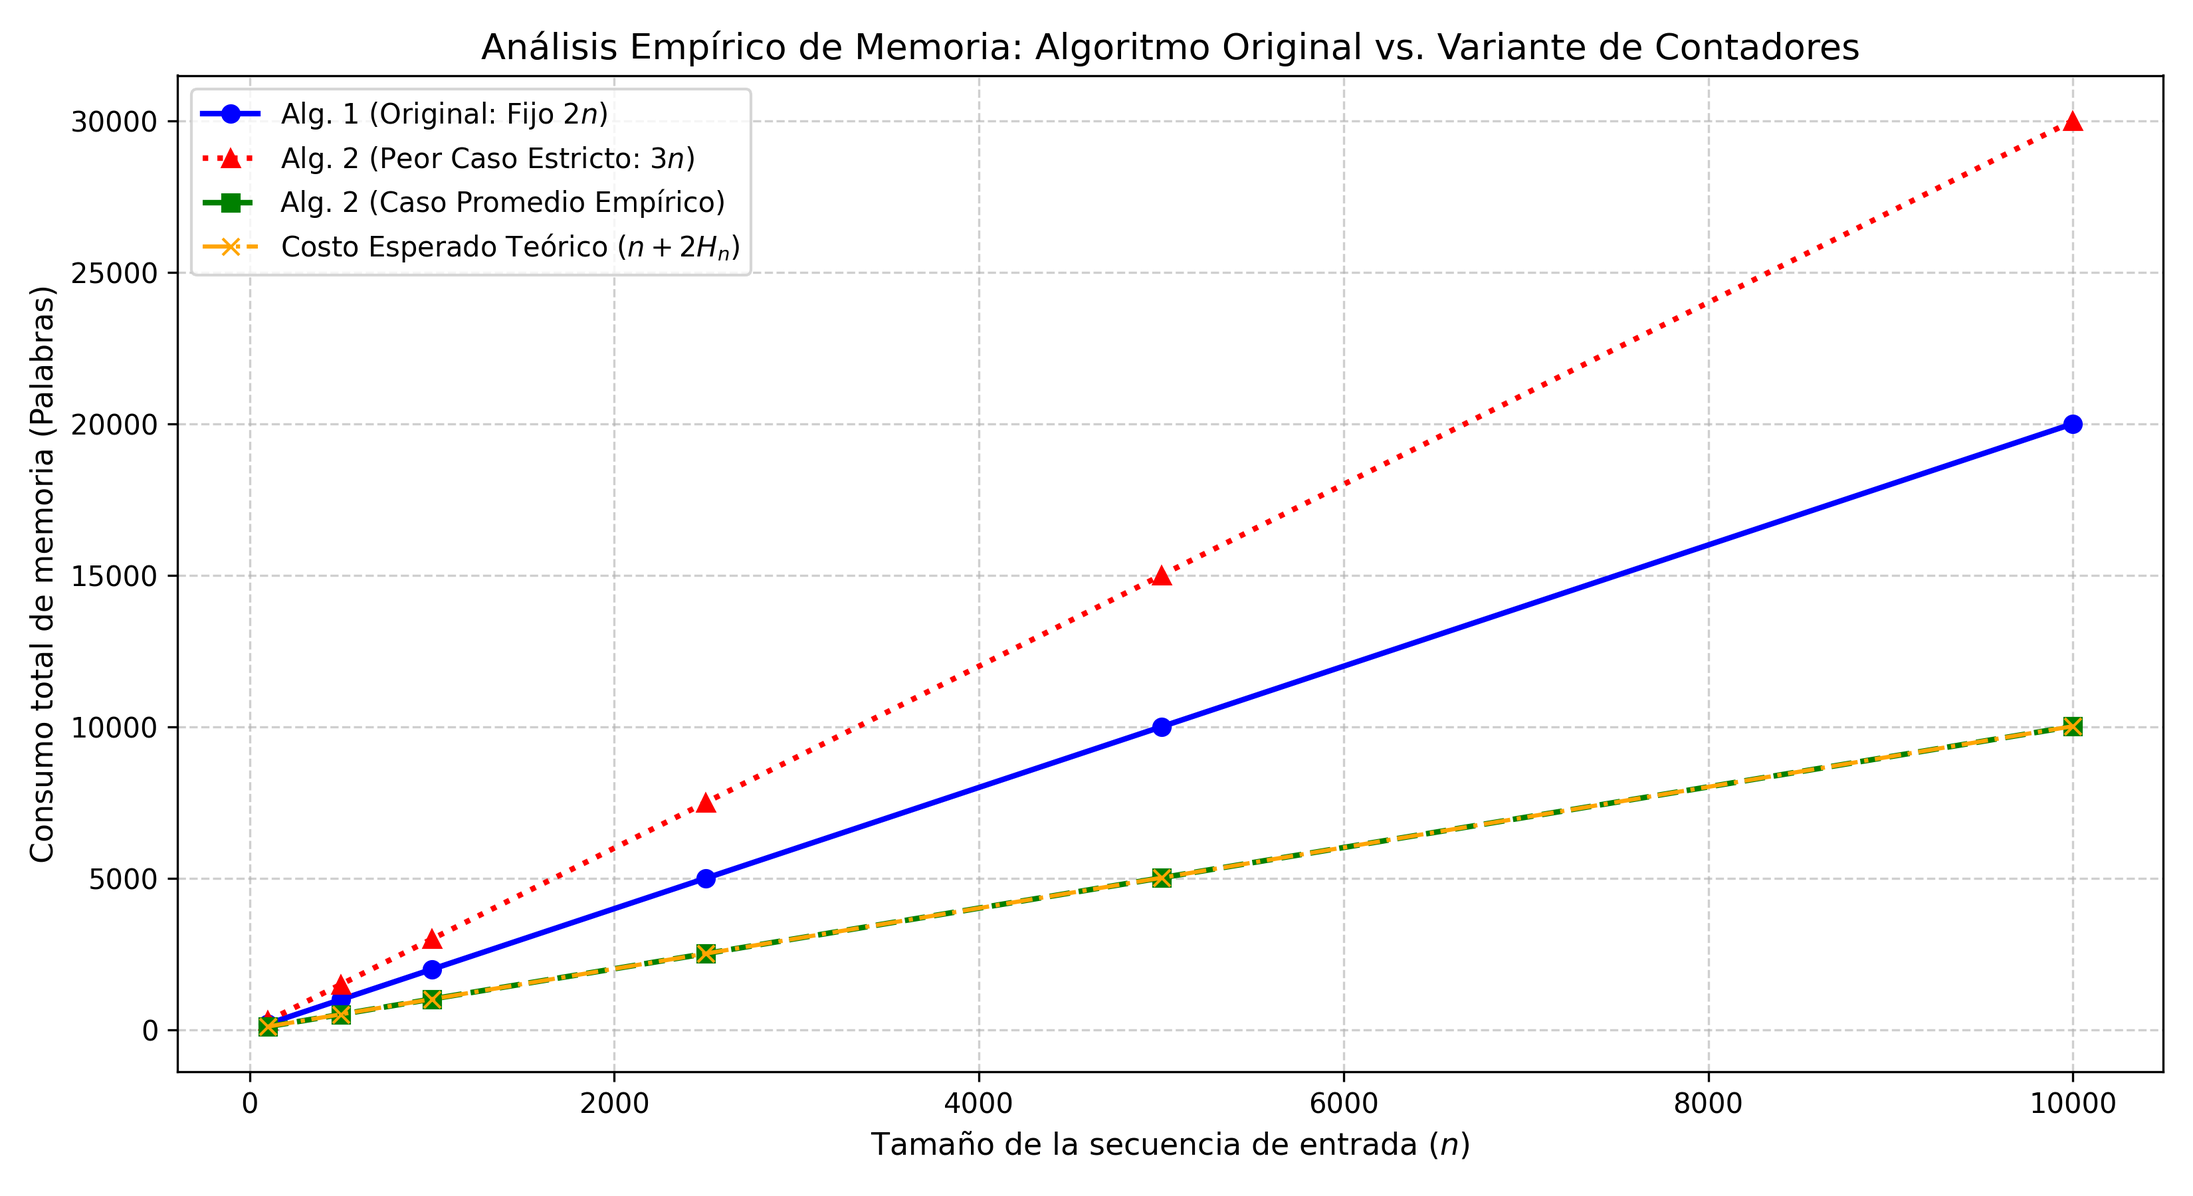
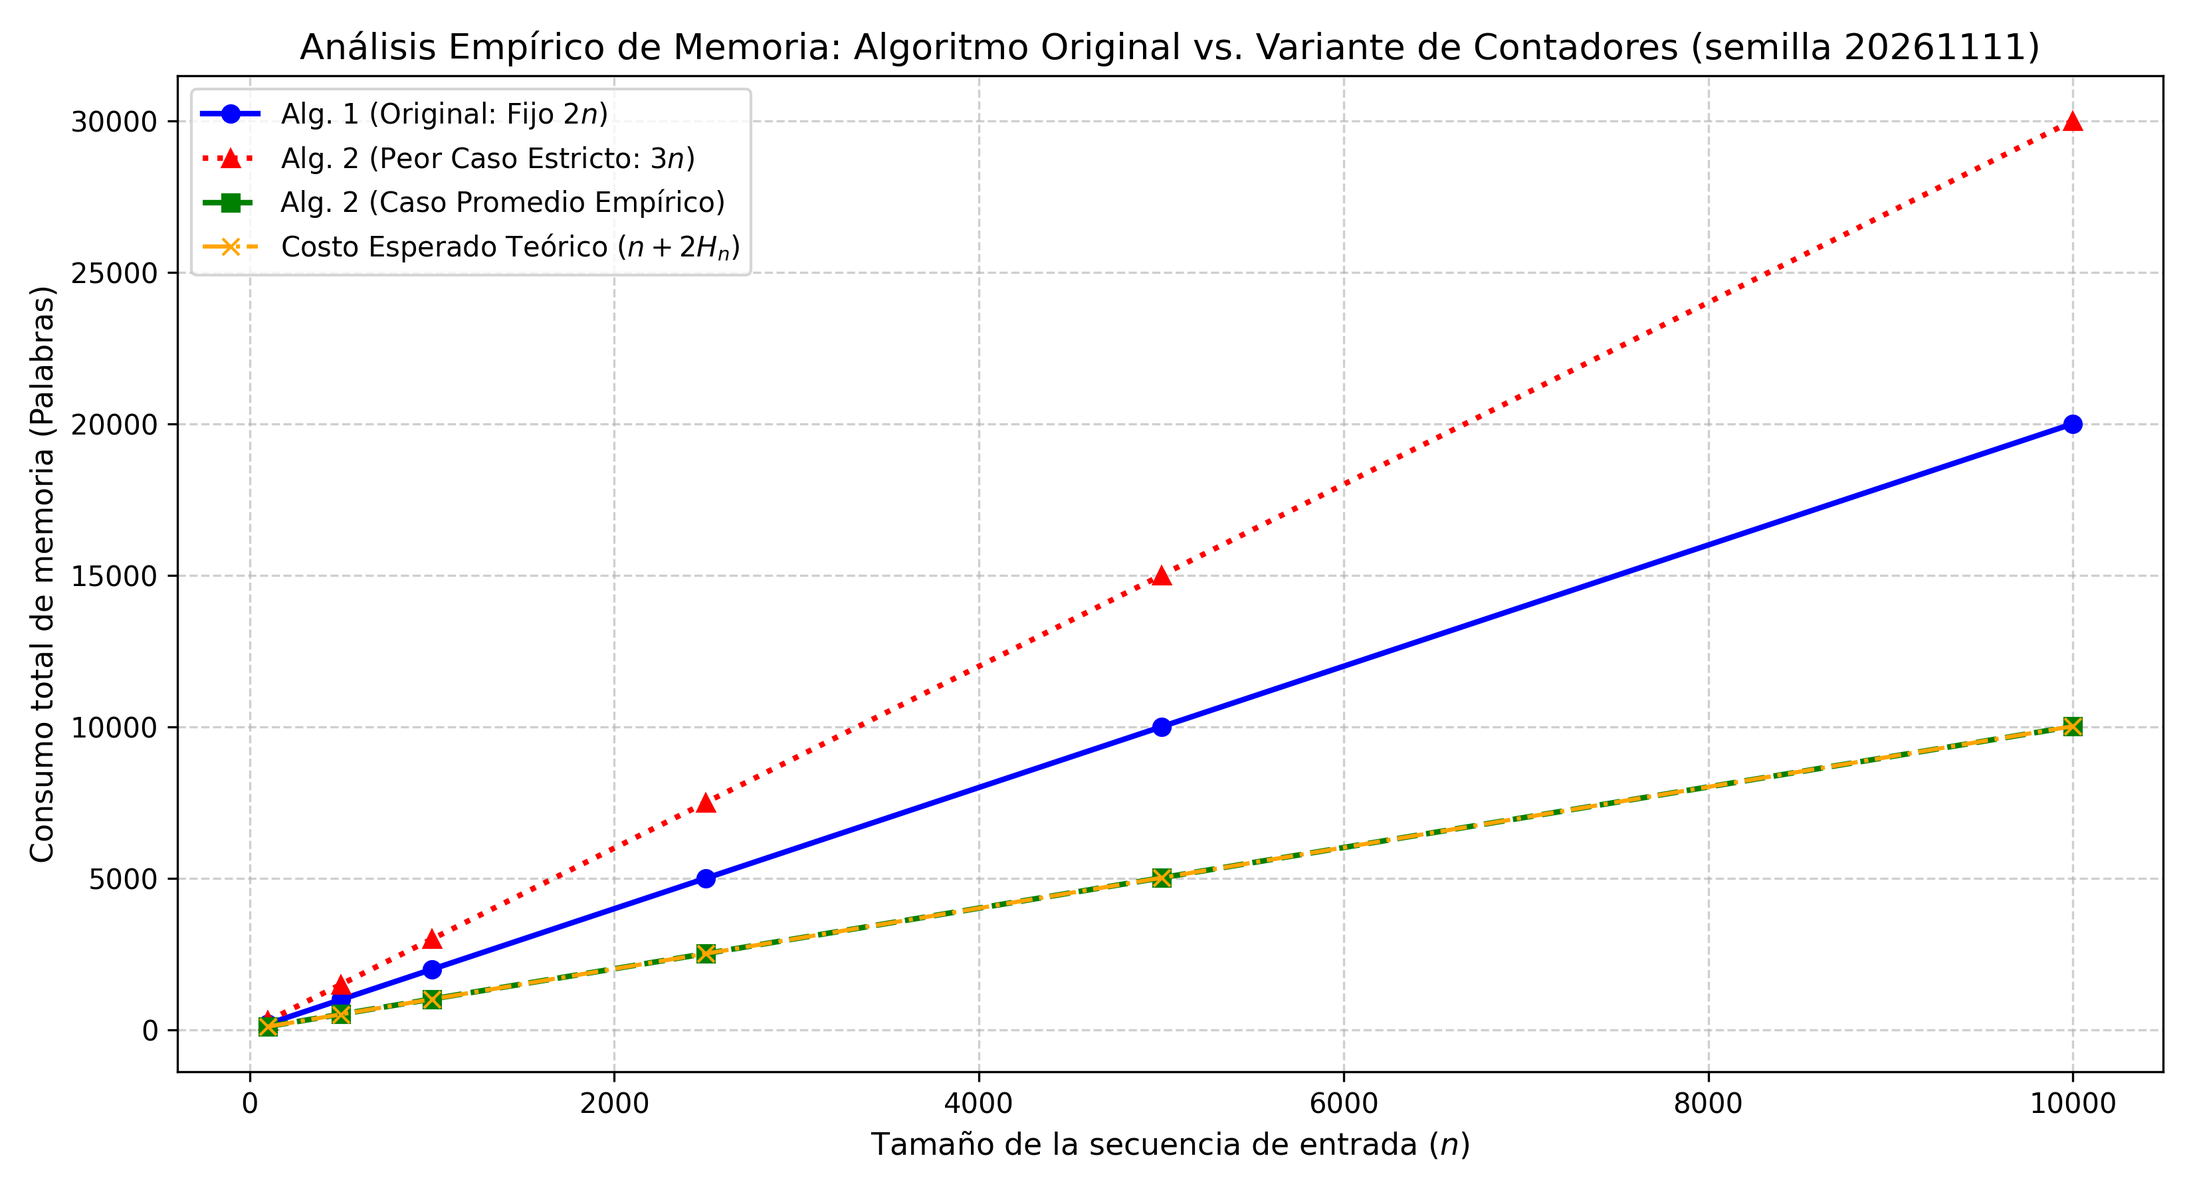
code correction ejercicio03

Changed region(s): [[0.1248, 0.0311, 0.9364, 0.0622]]

diff --git a/ejercicio03/analisis_pilas_dinamico.py b/ejercicio03/analisis_pilas_dinamico.py
@@ -2,6 +2,10 @@ import random
 import math
 import matplotlib.pyplot as plt
 
+# Semilla fija: las secuencias siguen siendo aleatorias, pero repetir
+# el script reproduce la misma prueba, la misma tabla y el mismo gráfico.
+SEMILLA = 20261111
+
 # ==========================================
 # 1. IMPLEMENTACIÓN DE LAS ESTRUCTURAS
 # ==========================================
@@ -63,27 +67,49 @@ class PilaConMinimoContador:
 # 2. PRUEBAS FUNCIONALES CON ASSERT
 # ==========================================
 
-def verificar_equivalencia_pilas(num_operaciones=10000):
+def minimo_por_recorrido(elementos):
+    """Mínimo calculado a mano: recorre todos los elementos de la pila."""
+    menor = elementos[0]
+    for valor in elementos[1:]:
+        if valor < menor:
+            menor = valor
+    return menor
+
+
+def verificar_equivalencia_pilas(num_operaciones=10000, semilla=SEMILLA):
+    rng = random.Random(semilla)
     pila_original = PilaConMinimo()
     pila_contador = PilaConMinimoContador()
-    
+
     for _ in range(num_operaciones):
         # 60% de probabilidad de push, 40% de pop (si no está vacía)
-        if not pila_original.S or random.random() < 0.6:
-            x = random.randint(-500, 500)
+        if not pila_original.S or rng.random() < 0.6:
+            x = rng.randint(-500, 500)
             pila_original.push(x)
             pila_contador.push(x)
         else:
             pila_original.pop()
             pila_contador.pop()
-        
+
         # Validaciones funcionales
         if pila_original.S:
+            minimo_manual_original = minimo_por_recorrido(pila_original.S)
+            minimo_manual_contador = minimo_por_recorrido(pila_contador.S)
             assert pila_original.tope() == pila_contador.tope(), "Error: El tope no coincide"
             assert pila_original.minimo() == pila_contador.minimo(), "Error: El mínimo no coincide"
             assert len(pila_original.S) == len(pila_contador.S), "Error: El tamaño de S no coincide"
-            
-    print(">>> ¡Prueba de equivalencia funcional con assert superada con éxito!\n")
+            assert pila_original.minimo() == minimo_manual_original, (
+                "Error: el mínimo de la pila original no coincide con el recorrido de S"
+            )
+            assert pila_contador.minimo() == minimo_manual_contador, (
+                "Error: el mínimo de la variante no coincide con el recorrido de S"
+            )
+
+    print(
+        ">>> ¡Prueba de equivalencia funcional con assert superada con éxito! "
+        f"(semilla {semilla}, {num_operaciones} operaciones; "
+        "el mínimo se contrastó en cada paso con un recorrido de toda la pila)\n"
+    )
 
 
 # ==========================================
@@ -103,10 +129,13 @@ def medir_uso_memoria_real(pila):
     return 0
 
 
-def analizar_casos_memoria_dinamico(tamanios=None, repeticiones_promedio=5):
+def analizar_casos_memoria_dinamico(tamanios=None, repeticiones_promedio=5, semilla=SEMILLA):
     if tamanios is None:
         tamanios = [100, 500, 1000, 2500, 5000, 10000]
 
+    rng = random.Random(semilla)
+
+    print(f"Semilla del caso promedio: {semilla} ({repeticiones_promedio} repeticiones por n)")
     print("=" * 115)
     print(f"{'n (elementos)':<12} | {'Alg. 1 (Prom)':<13} | {'Alg. 1 (Peor)':<13} | {'Alg. 2 (Prom)':<13} | {'Alg. 2 (Peor)':<13} | {'Esperado ($n+2H_n$)':<18} | {'¿Cumple?':<8}")
     print("=" * 115)
@@ -115,7 +144,8 @@ def analizar_casos_memoria_dinamico(tamanios=None, repeticiones_promedio=5):
         'n': [],
         'alg1_prom': [], 'alg1_peor': [],
         'alg2_prom': [], 'alg2_peor': [],
-        'teorico': []
+        'teorico': [],
+        'semilla': semilla,
     }
 
     for n in tamanios:
@@ -125,7 +155,7 @@ def analizar_casos_memoria_dinamico(tamanios=None, repeticiones_promedio=5):
         mem_a2_prom_acum = 0
         
         for _ in range(repeticiones_promedio):
-            datos_rand = [random.randint(1, 1000000) for _ in range(n)]
+            datos_rand = [rng.randint(1, 1000000) for _ in range(n)]
             
             p1_prom = PilaConMinimo()
             p2_prom = PilaConMinimoContador()
@@ -191,7 +221,10 @@ def generar_grafico_respaldo(datos):
 
     plt.xlabel("Tamaño de la secuencia de entrada ($n$)", fontsize=11)
     plt.ylabel("Consumo total de memoria (Palabras)", fontsize=11)
-    plt.title("Análisis Empírico de Memoria: Algoritmo Original vs. Variante de Contadores", fontsize=13)
+    plt.title(
+        f"Análisis Empírico de Memoria: Algoritmo Original vs. Variante de Contadores (semilla {datos['semilla']})",
+        fontsize=13,
+    )
     plt.legend(fontsize=10)
     plt.grid(True, linestyle="--", alpha=0.6)
     plt.tight_layout()

diff --git a/ejercicio03/ejercicio03.md b/ejercicio03/ejercicio03.md
@@ -197,52 +197,41 @@ class PilaConMinimoContador:
 
 ## Correctitud (Invariante)
 
-**Invariante de representación.** Válido antes y después de cada operación:
+**Invariante de representación.** Vale antes y después de cada operación. El índice `0` es la base de `S` y el índice `n − 1` es el tope, con `n = |S|`.
 
-> La suma de los contadores en `M` es igual a la longitud de `S` (`sum(c for _, c in M) = |S|`), y el tope de `M` (`M[-1][0]`) almacena siempre el mínimo global actual de toda la pila `S`. Además, cada par `(v, c)` en `M` representa un bloque de `c` elementos consecutivos en la base del prefijo correspondiente cuyo valor mínimo es `v`.
+> `M` está vacía exactamente cuando `S` está vacía. Si `S` no está vacía, para cada `i` con `0 ≤ i < n` sea `m(i) = mín(S[0], …, S[i])`, y sea `M = [(v_1, c_1), …, (v_k, c_k)]`. Entonces:
+>
+> 1. `v_1 > v_2 > … > v_k` y `c_j ≥ 1` para todo `j`.
+> 2. El tope de `M` es el mínimo de toda la pila: `v_k = m(n − 1) = mín(S)`.
+> 3. Existen índices `0 = p_1 < p_2 < … < p_k < n` que parten `S` en `k` segmentos. El segmento `j` ocupa el intervalo `[p_j, p_{j+1})`, con el convenio `p_{k+1} = n`. En ese segmento `m(i) = v_j` —luego todo elemento del segmento es `≥ v_j`— y `c_j` es la cantidad de posiciones `i` del segmento con `S[i] = v_j`.
 
-ARREGLAR:
-hay que arreglar bien la invariante, EN ESTA INVARIANTE DICE QUE La suma de los contadores en `M` es igual a la longitud de `S` y esto creo que no es cierto, pues cuando se agrega un elemento que es mayor que el mínimo actual el contador de M no lo tiene en cuenta, por lo que esos valores se dejan de contar.
+Cada par `(v_j, c_j)` es el mínimo de prefijo que empieza en `p_j`, junto con las copias de ese valor dentro de su segmento. Una posición `i` entra en algún contador exactamente cuando `S[i] = m(i)`. Si `S[i] > m(i)`, el elemento queda en `S` y fuera de `M`. Por eso la suma de los contadores es el número de posiciones que alcanzan el mínimo de su prefijo, y esa suma es a lo sumo `|S|`.
 
+Con `S = [5, 8, 5, 3, 4]` (base a la izquierda, tope a la derecha) los mínimos de prefijo son `5, 5, 5, 3, 3`. Alcanzan ese mínimo la primera `5`, la segunda `5` y el `3`. Queda `M = [(5, 2), (3, 1)]`: el segmento `[0, 3)` aporta las dos copias de `5`, y el segmento `[3, 5)` aporta la copia de `3`. La suma de contadores es `3` y `|S| = 5`; el `8` y el `4` superan el mínimo de su prefijo.
 
+* **Inicialización.** `S` y `M` se crean vacías. Se cumple el caso vacío del invariante.
 
-* **Inicialización.** Ambas pilas están vacías: `S` y `M` están vacías, la suma de contadores es 0 y el invariante se cumple trivialmente.
-* **Mantenimiento.** Analizamos las operaciones que modifican el estado:
-* `push(x)` con `x < M[-1][0]` (o pila vacía): Se añade un nuevo par `[x, 1]` a `M` y `x` a `S`. Como `x` es estrictamente menor que cualquier elemento anterior, se establece como el nuevo mínimo global y la suma total de elementos aumenta en 1. ✓
+* **Mantenimiento.** Se asume el invariante en el estado previo.
 
-insertar aquí una foto que visualice el ejemplo
-![Diagrama de la pila](algoritmo2working.jpeg)
+  * `push(x)` con pila vacía. Queda `S = [x]` y `M = [(x, 1)]`. El único segmento arranca en `p_1 = 0`, con `m(0) = x` y `c_1 = 1`. ✓
 
+  * `push(x)` con pila no vacía y `x < v_k`. Los prefijos `S[0..i]` para `i < n` no cambian, así que sus mínimos y los segmentos `1..k` se conservan. El elemento nuevo ocupa el índice `n` y `m(n) = mín(v_k, x) = x`: por el segmento `k`, todo elemento ya presente es `≥ v_k > x`. El código agrega el par `(x, 1)`. Los valores quedan `v_1 > … > v_k > x`, el segmento nuevo es el singleton `{n}` y su contador es `1`. El mínimo global pasa a ser `x`. ✓
 
-* `push(x)` con `x == M[-1][0]`: El valor coincide con el mínimo actual. Se incrementa en 1 el contador del tope de `M` (`M[-1][1] += 1`) y se añade `x` a `S`. El mínimo global no cambia y la correspondencia de elementos se preserva. ✓
+  * `push(x)` con `x = v_k`. Los mínimos de los prefijos anteriores no cambian y `m(n) = v_k`. El índice nuevo cae en el último segmento y vale `v_k`, así que ese segmento tiene una copia más de `v_k`. El código ejecuta `c_k += 1`. Los valores de `M` siguen estrictamente decrecientes y `v_k` sigue siendo el mínimo de `S`. ✓
 
-insertar aquí una foto que visualice el ejemplo
-![Diagrama de la pila](algoritmo2working1.jpeg)
+  * `push(x)` con `x > v_k`. Los mínimos de los prefijos anteriores no cambian y `m(n) = v_k`. El índice nuevo cae en el último segmento y es estrictamente mayor que `v_k`, así que no agrega una copia de `v_k`. El código deja `M` igual. Los contadores y el mínimo global siguen como pide el invariante. ✓
 
-* `push(x)` con `x > M[-1][0]`: El valor es mayor que el mínimo actual. No se altera `M` y se añade `x` a `S`. Como `x` no puede ser el nuevo mínimo, la estructura de mínimos históricos en `M` permanece intacta. ✓
+  * `pop()` con la pila no vacía. Sea `y = S[n − 1]`. Por la cláusula 2, `y ≥ v_k`, y el índice `n − 1` pertenece al último segmento. Al quitar `y`, cada prefijo `S[0..i]` con `i < n − 1` queda igual, y con él su `m(i)`. El código distingue los dos casos con la comparación `y == v_k`.
 
-insertar aqui una foto que visualice el ejemplo
-![Diagrama de la pila](algoritmo2working2.jpeg)
+    * Si `y > v_k`, esa posición no formaba parte de `c_k` y el código no modifica `M`. El último segmento pierde un elemento mayor que `v_k` y el contador sigue exacto. Como `c_k ≥ 1`, en la pila queda al menos una copia de `v_k`: el arranque `p_k` se conserva y `v_k` sigue siendo el mínimo. ✓
 
-* `pop()`: Se extrae el elemento `y` de `S`. Si `y == M[-1][0]`, se decrementa el contador del mínimo actual en 1; si llega a 0, se elimina el par de `M`, exponiendo automáticamente el mínimo anterior. 
-insertar aqui una foto que visualice el ejemplo
-![Diagrama de la pila](algoritmo2working3.jpeg)
+    * Si `y = v_k`, esa posición formaba parte de `c_k` y el código decrementa el contador.
+      * Si después del decremento `c_k ≥ 1`, antes había al menos dos copias de `v_k` en el último segmento. El segmento ocupa más de un casillero, el tope está por encima de `p_k` y el arranque no se mueve. El mínimo global sigue siendo `v_k`. ✓
+      * Si el contador llega a `0`, antes del `pop` se tenía `c_k = 1` y el tope era esa única copia. El segmento empieza en `p_k` con `S[p_k] = v_k`, luego la única copia es `p_k`. Como además es el tope, `p_k = n − 1` y el segmento es el singleton `{n − 1}`. Quitarlo vacía el segmento: el código elimina el par. Si `S` queda vacía, `M` queda vacía. Si no, los segmentos `1..k − 1` cubren exactamente la pila restante y el nuevo tope de `M` es `v_{k − 1}`, el mínimo de lo que queda. ✓
 
+  * `tope()` y `minimo()` no modifican el estado.
 
-Si `y > M[-1][0]`, el elemento retirado no era el mínimo actual, por lo que `M` no se modifica, garantizando que el mínimo activo sigue siendo correcto. ✓
-
-insertar aquí una foto que visualice el ejemplo
-![Diagrama de la pila](algoritmo2working4.jpeg)
-
-
-
-* `tope()` y `minimo()` no modifican el estado.
-
-
-insertar aquí una foto que visualice el ejemplo.
-![Diagrama de la pila](algoritmo2working5.jpeg)
-
-* **Conclusión.** En cualquier estado válido, `minimo()` devuelve `M[-1][0]`, que por el invariante es el menor elemento presente en toda la pila `S`.
+* **Conclusión.** Con la pila no vacía, `minimo()` devuelve `M[-1][0] = v_k`. Por la cláusula 2 ese valor es `mín(S)`, que es la postcondición pedida.
 
 ---
 
@@ -357,26 +346,44 @@ Para garantizar que la variante de contadores se comporta exactamente igual que 
 ```python
 import random
 
-def verificar_equivalencia_pilas(num_operaciones=5000):
+SEMILLA = 20261111
+
+def minimo_por_recorrido(elementos):
+    """Mínimo calculado a mano: recorre todos los elementos de la pila."""
+    menor = elementos[0]
+    for valor in elementos[1:]:
+        if valor < menor:
+            menor = valor
+    return menor
+
+def verificar_equivalencia_pilas(num_operaciones=10000, semilla=SEMILLA):
+    rng = random.Random(semilla)
     pila_original = PilaConMinimo()
     pila_contador = PilaConMinimoContador()
-    
+
     for _ in range(num_operaciones):
         # 60% de probabilidad de hacer push, 40% de pop (si la pila no está vacía)
-        if not pila_original.S or random.random() < 0.6:
-            x = random.randint(-100, 100)
+        if not pila_original.S or rng.random() < 0.6:
+            x = rng.randint(-500, 500)
             pila_original.push(x)
             pila_contador.push(x)
         else:
             pila_original.pop()
             pila_contador.pop()
-        
-        # Si hay elementos, verificamos que los resultados coincidan
+
         if pila_original.S:
+            minimo_manual_original = minimo_por_recorrido(pila_original.S)
+            minimo_manual_contador = minimo_por_recorrido(pila_contador.S)
             assert pila_original.tope() == pila_contador.tope(), "Error: El tope no coincide"
             assert pila_original.minimo() == pila_contador.minimo(), "Error: El mínimo no coincide"
             assert len(pila_original.S) == len(pila_contador.S), "Error: El tamaño de S no coincide"
-            
+            assert pila_original.minimo() == minimo_manual_original, (
+                "Error: el mínimo de la pila original no coincide con el recorrido de S"
+            )
+            assert pila_contador.minimo() == minimo_manual_contador, (
+                "Error: el mínimo de la variante no coincide con el recorrido de S"
+            )
+
     print("¡Prueba superada! La variante con contadores es funcionalmente equivalente.")
 
 # Ejecutar la prueba
@@ -386,7 +393,7 @@ verificar_equivalencia_pilas()
 
 ### Validación Funcional Automatizada
 
-Para comprobar empíricamente que la variante de contadores se comporta de manera idéntica a la solución original ante una secuencia masiva de operaciones aleatorias (inserciones y extracciones intercaladas), se ejecutó una suite de pruebas automatizadas con `assert` utilizando $10,000$ operaciones. 
+Para comprobar empíricamente que la variante de contadores se comporta de manera idéntica a la solución original ante una secuencia masiva de operaciones aleatorias (inserciones y extracciones intercaladas), se ejecutó una suite de pruebas automatizadas con `assert` utilizando $10,000$ operaciones y la semilla `20261111`. En cada paso, además de comparar las dos pilas entre sí, el mínimo de cada una se contrastó con el mínimo obtenido recorriendo todos los elementos de `S`. 
 
 El resultado de la ejecución en consola confirma la equivalencia funcional:
 \`\`\`text
@@ -458,16 +465,16 @@ def generar_grafico_comparativo():
 
 ### Resultados Empíricos y Verificación de Hipótesis
 
-Al ejecutar las simulaciones dinámicas para distintos tamaños de entrada ($n$), se obtuvieron los siguientes valores de consumo de memoria medidos en palabras:
+Al ejecutar las simulaciones dinámicas para distintos tamaños de entrada ($n$), con la semilla `20261111` y cinco repeticiones del caso promedio, se obtuvieron los siguientes valores de consumo de memoria medidos en palabras. Volver a ejecutar `analisis_pilas_dinamico.py` reproduce esta tabla y el gráfico.
 
 | $n$ (elementos) | Alg. 1 (Promedio) | Alg. 1 (Peor Caso) | Alg. 2 (Promedio) | Alg. 2 (Peor Caso) | Esperado ($n + 2H_n$) | ¿Cumple Hipótesis? |
 | :--- | :--- | :--- | :--- | :--- | :--- | :--- |
-| **100** | 200.0 | 200 | 108.8 | 300 | 110.36 | **SÍ** |
-| **500** | 1000.0 | 1000 | 510.0 | 1500 | 513.58 | **SÍ** |
-| **1000** | 2000.0 | 2000 | 1018.4 | 3000 | 1014.97 | **SÍ** |
-| **2500** | 5000.0 | 5000 | 2515.2 | 7500 | 2516.8 | **SÍ** |
-| **5000** | 10000.0 | 10000 | 5017.6 | 15000 | 5018.19 | **SÍ** |
-| **10000** | 20000.0 | 10000 | 10017.6 | 30000 | 10019.58 | **SÍ** |
+| **100** | 200.0 | 200 | 114.0 | 300 | 110.36 | **SÍ** |
+| **500** | 1000.0 | 1000 | 516.4 | 1500 | 513.58 | **SÍ** |
+| **1000** | 2000.0 | 2000 | 1019.6 | 3000 | 1014.97 | **SÍ** |
+| **2500** | 5000.0 | 5000 | 2517.2 | 7500 | 2516.8 | **SÍ** |
+| **5000** | 10000.0 | 10000 | 5018.8 | 15000 | 5018.19 | **SÍ** |
+| **10000** | 20000.0 | 20000 | 10016.0 | 30000 | 10019.58 | **SÍ** |
 
 #### Conclusión del análisis de datos:
 1. **Algoritmo 1 (Original):** Mantiene una estabilidad estricta de $2n$ palabras tanto en promedio como en el peor caso, validando su comportamiento determinista.
@@ -497,10 +504,6 @@ El gráfico de rendimiento espacial permite identificar claramente tres zonas de
 
 * **La solución original** mantiene una línea recta y predecible en $2n$ palabras, garantizando estabilidad en el peor caso.
 * **La variante de contadores** demuestra gráficamente su ventaja en escenarios reales o aleatorios (donde el número de cambios de mínimo es logarítmico, $O(\ln n)$), pero penaliza el **peor caso absoluto** alcanzando hasta $3n$ palabras ($n$ de la pila principal más $2n$ de los pares en la pila secundaria), justificando por qué la versión original sigue siendo la elección estándar para cotas estrictas de peor caso.
-
-
-ARREGALRA QUE EN LOS CÓDIGOS DE ANÁLISIS QUE USEN ALEATORIEDAD SE REALICEN DE UNA MANERA EN QUE SEAN ALEATORIOS, PERO QUE SE PUEDA REPLICAR EL MISMO EJEMPLO QUE SE USÓ PARA CREAR LAS TABLAS O GRÁFICOS
-
 
 
 ### Conclusión
